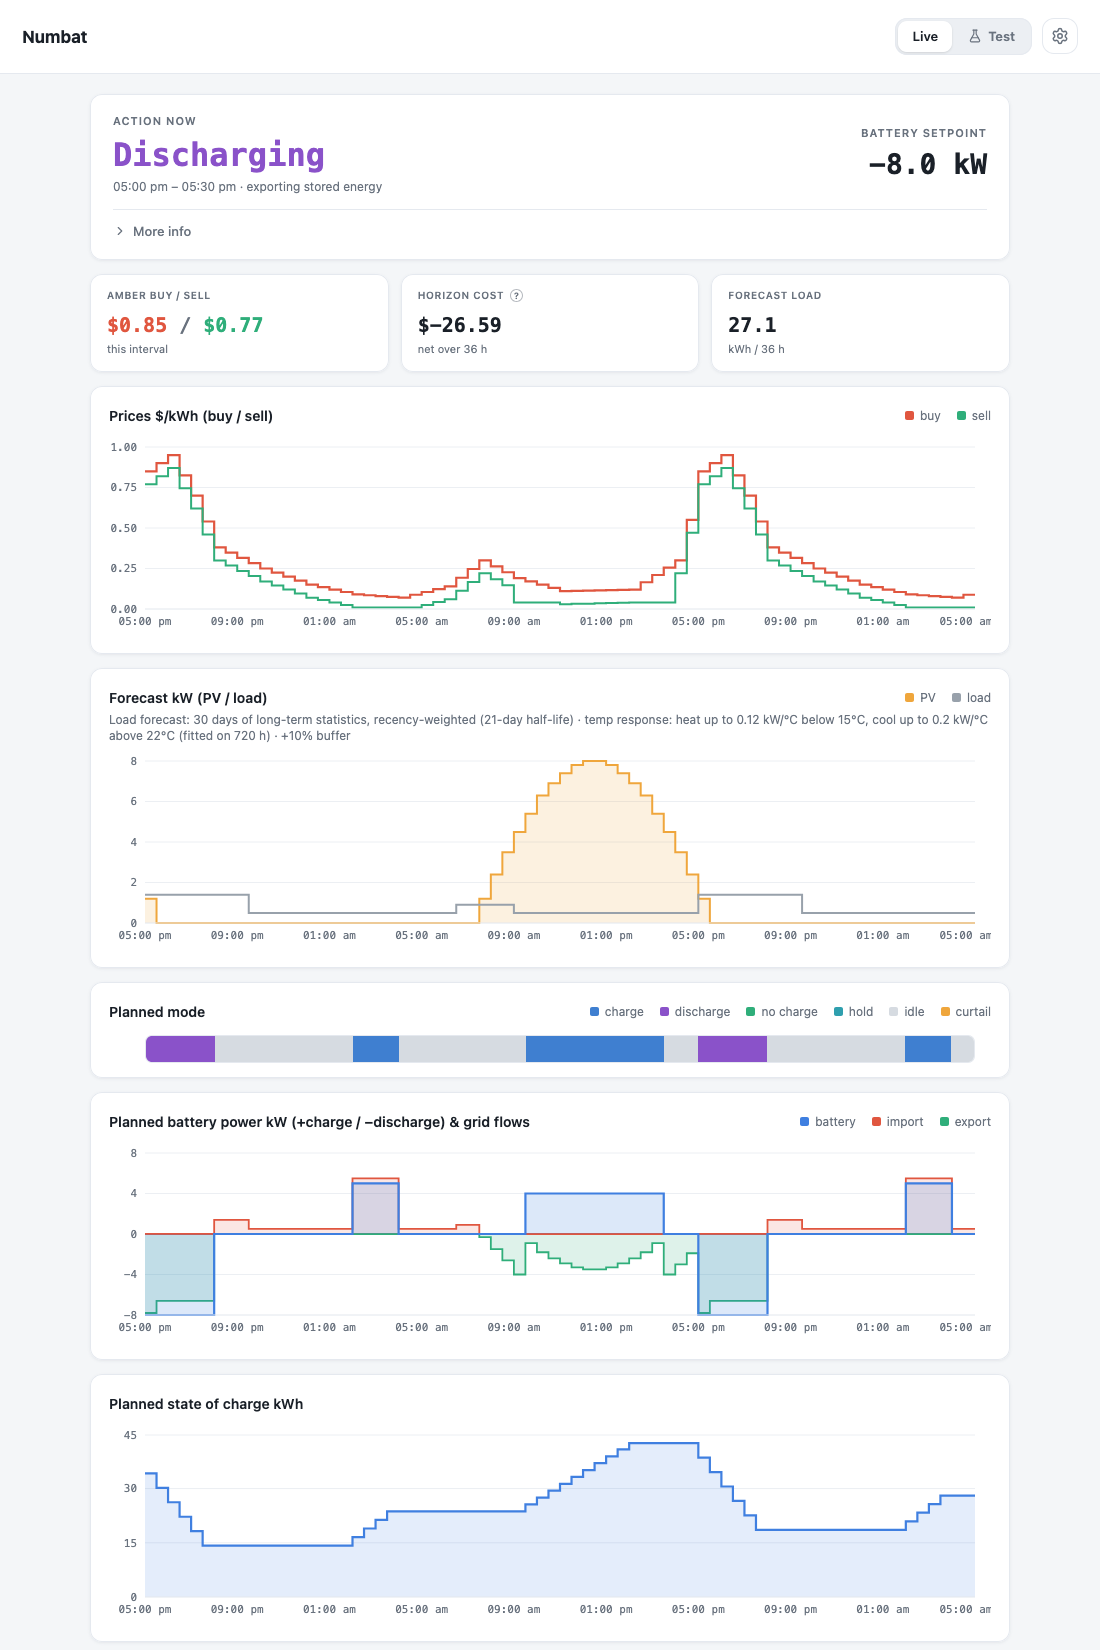
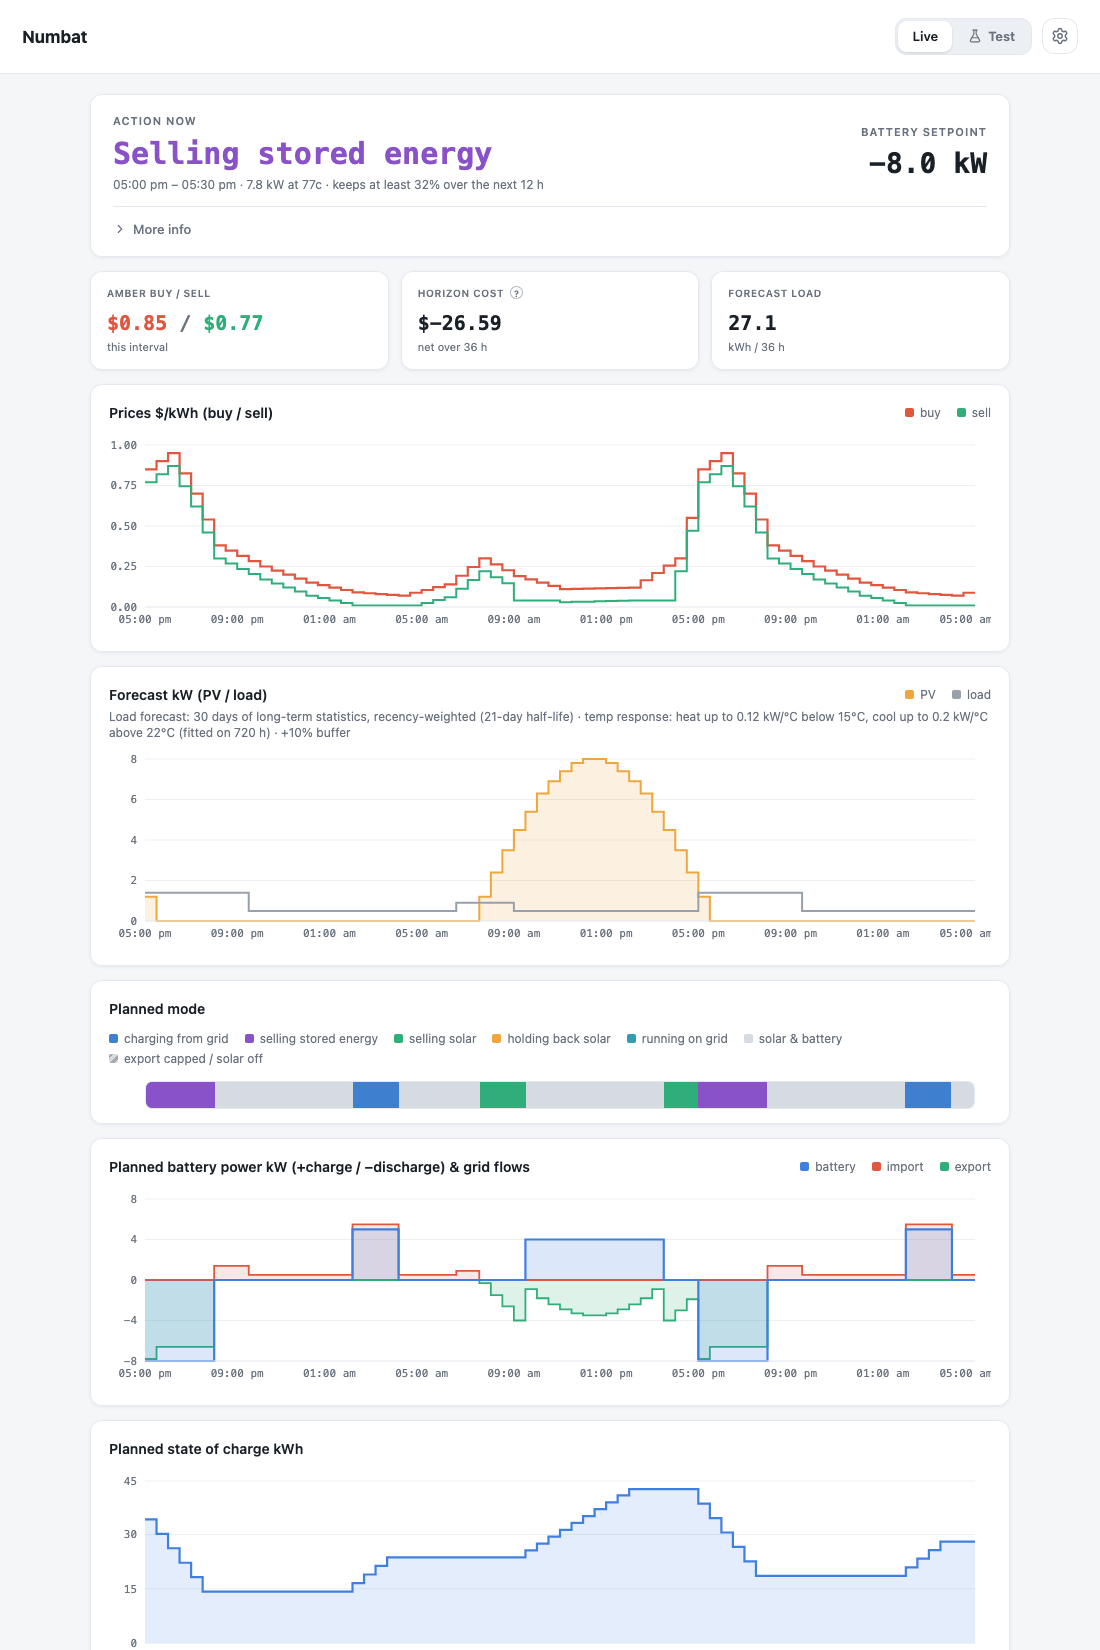
Screenshots: the mock plan speaks the flow vocabulary
The screenshot script's mock plan now carries per-interval flow fields and
the explanation's flow block (mirroring numbat/flow.py), and its midday
solar charge is `idle` + storing solar, as the real planner classifies it.

diff --git a/numbat/frontend/scripts/screenshot.ts b/numbat/frontend/scripts/screenshot.ts
@@ -72,7 +72,7 @@ function makePlan() {
     let power = 0;
     if (hod >= 17 && hod < 20) [action, power] = ["discharge", -8];
     else if (hod >= 2 && hod < 4) [action, power] = ["charge", 5]; // cheap grid top-up
-    else if (hod >= 9 && hod < 15.5 && pv > 4.5) [action, power] = ["charge", 4]; // solar
+    else if (hod >= 9 && hod < 15.5 && pv > 4.5) [action, power] = ["idle", 4]; // storing solar
     const soc_start = soc;
     soc = Math.min(CAPACITY * 0.95, Math.max(CAPACITY * 0.1, soc + (power > 0 ? power * 0.95 : power) * 0.5));
 
@@ -81,13 +81,29 @@ function makePlan() {
     const grid_import_kw = Math.round(Math.max(0, -surplus) * 10) / 10;
     const interval_cost = Math.round((buy * grid_import_kw - sell * grid_export_kw) * 0.5 * 100) / 100;
     objective += interval_cost;
+    // the flow vocabulary, mirroring numbat/flow.py (action-first)
+    const pv_used_kw = pv;
+    const flow =
+      action === "charge" ? "charging_from_grid"
+      : action === "discharge" ? "selling_stored_energy"
+      : power > 0.01 ? "storing_solar"
+      : grid_export_kw > 0.05 ? "selling_solar"
+      : power < -0.01 ? "running_on_battery"
+      : pv_used_kw > 0.01 && pv_used_kw >= load - 0.01 ? "solar_running_house"
+      : grid_import_kw > 0.01 ? "battery_empty"
+      : "waiting";
     intervals.push({
       start: start.toISOString(), end: end.toISOString(), action,
       power_kw: power, soc_start, soc_end: soc, buy, sell,
       pv_kw: pv, load_kw: load, grid_import_kw, grid_export_kw, interval_cost,
+      pv_used_kw, flow, export_capped: false, pv_off: false, pv_spill_kw: 0,
     });
   }
   const s0 = intervals[0];
+  const later = intervals.slice(1);
+  const fill = later.find((iv) => iv.power_kw > 0.01);
+  const use = later.find((iv) => iv.power_kw < -0.01);
+  const socMin = Math.min(...intervals.slice(0, 24).map((iv) => iv.soc_end));
   return {
     computed_at: T0.toISOString(),
     solver_status: "optimal",
@@ -113,6 +129,12 @@ function makePlan() {
         },
         context: { hold_value: 0.21, hysteresis: false },
         levers: { spike_reserve: null, daily_target: false, live_spike: false, prices_estimated: false },
+        flow: {
+          key: s0.flow, export_capped: false, pv_off: false, pv_spill_kw: 0,
+          ...(fill ? { next_fill_time: fill.start, next_fill_source: fill.action === "charge" ? "grid" : "solar" } : {}),
+          ...(use ? { next_use_time: use.start, next_use_buy: use.buy } : {}),
+          soc_min_ahead_pct: Math.round((socMin / CAPACITY) * 1000) / 10,
+        },
       },
     },
     intervals,
